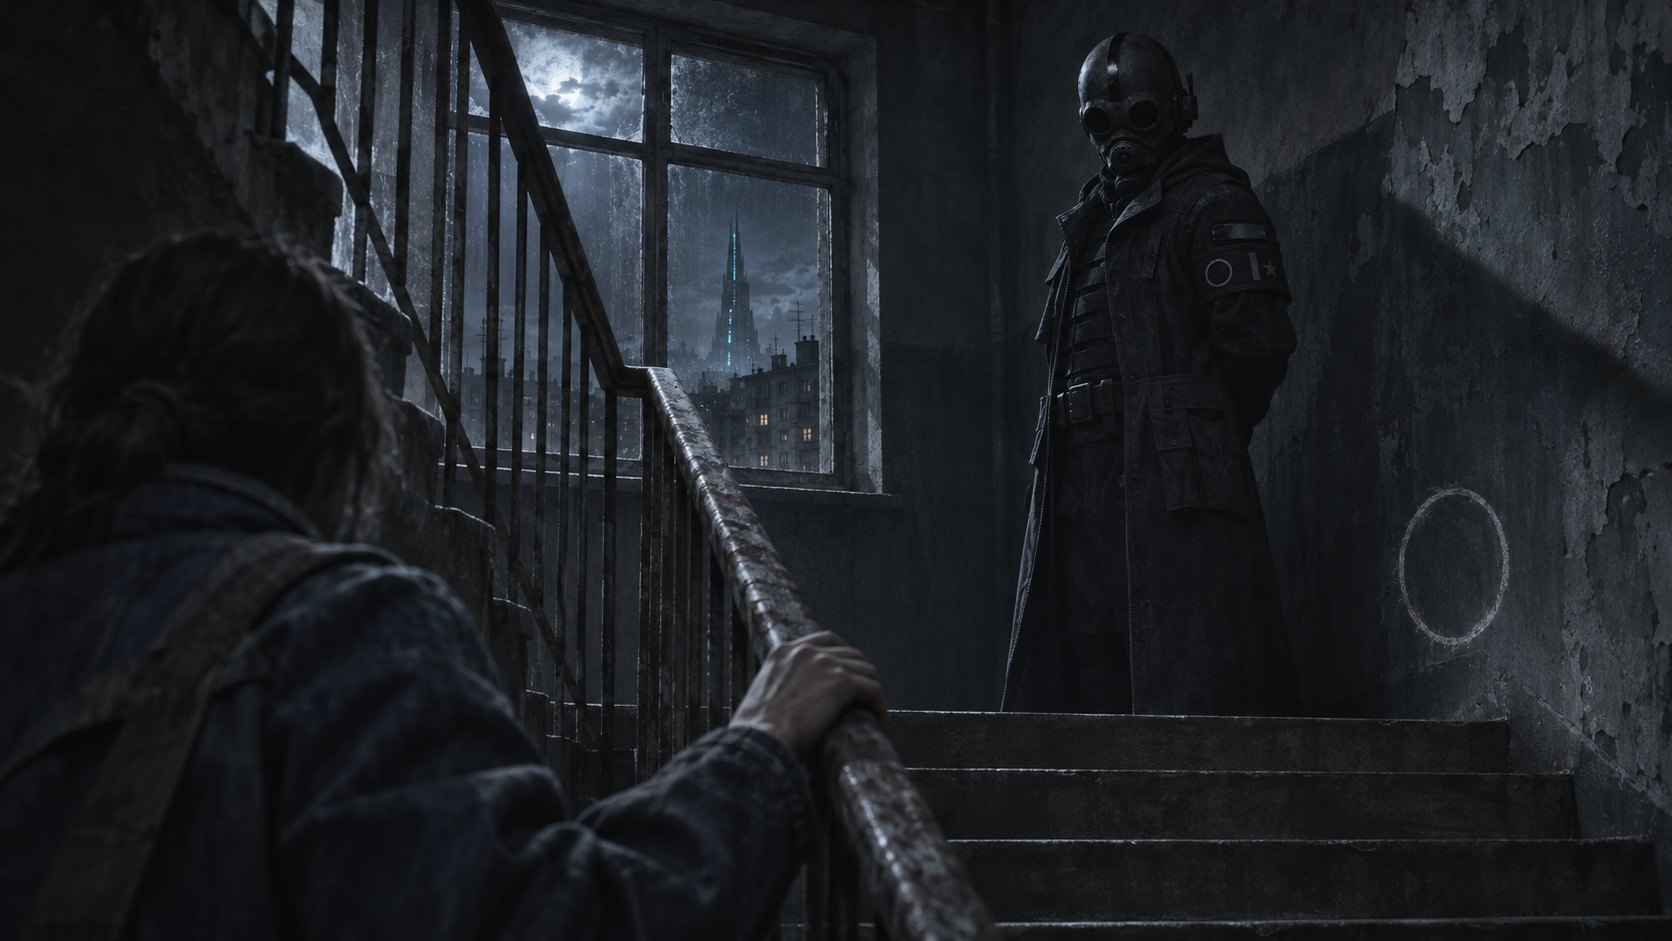
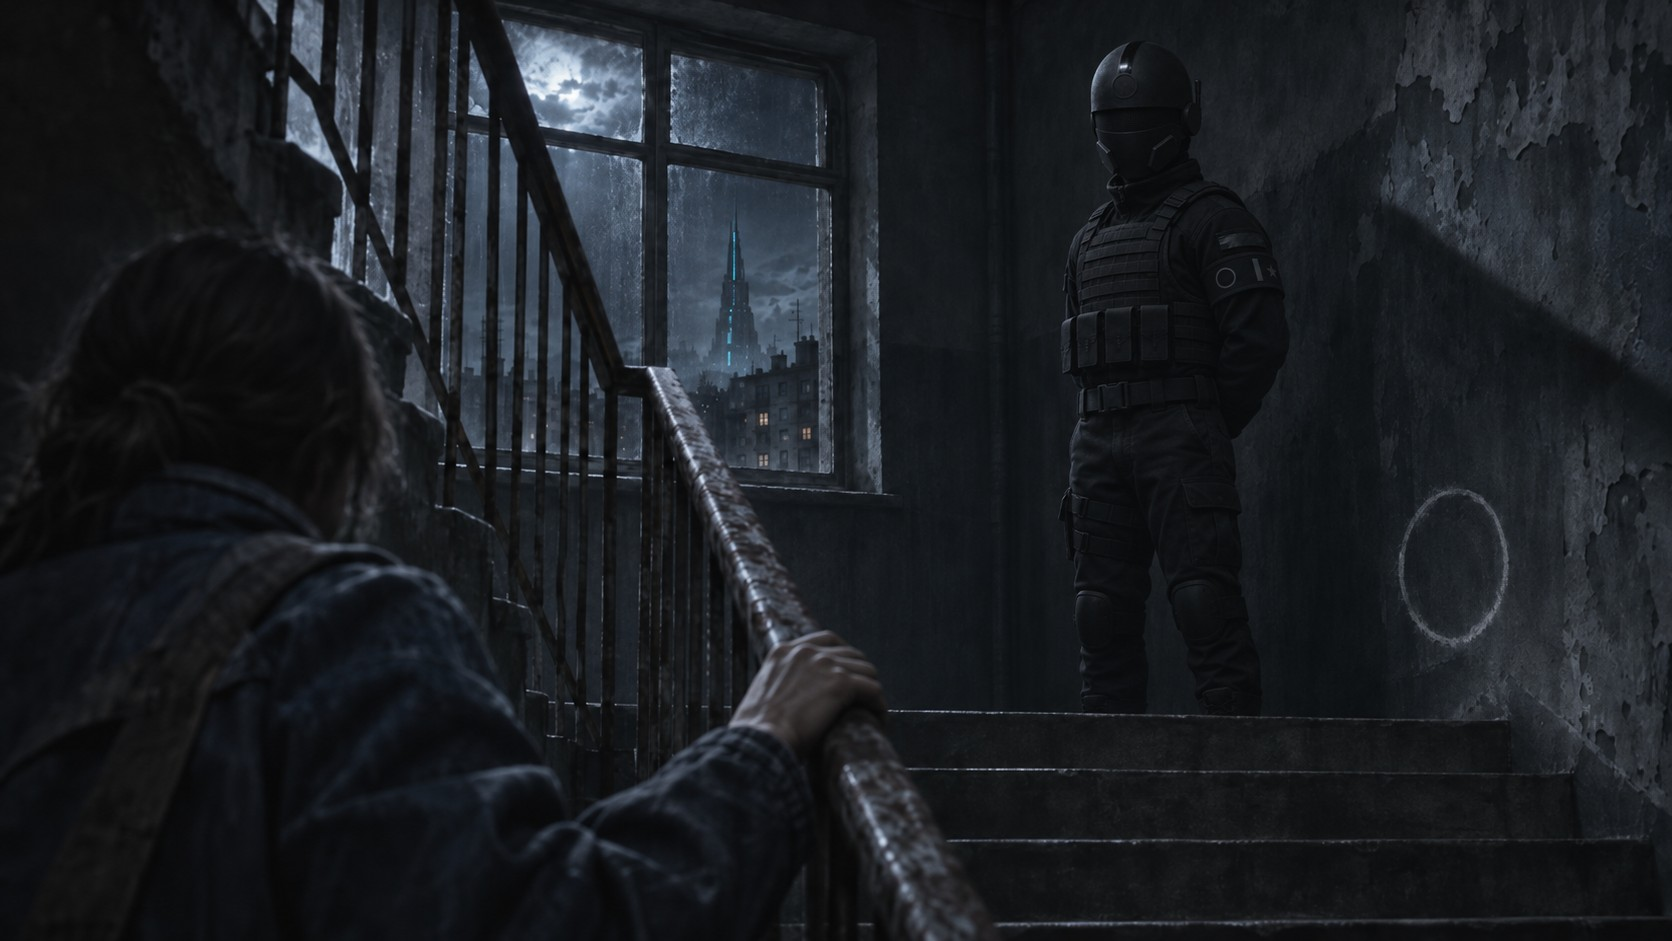
Division leaders: six DvL portraits, roster, Division Leaders codex; E35 Rev 2
Claude-Session: https://claude.ai/code/session_01FPxW8sjExYByq8Hjg1f5Jc

diff --git a/js/content/career.js b/js/content/career.js
@@ -93,6 +93,19 @@
   };
   const NICK = ['Anvil', 'Birch', 'Cobble', 'Dray', 'Ember', 'Flint', 'Gauge', 'Harrow', 'Ingot', 'Jolt', 'Keel', 'Lantern', 'Mallet', 'Nettle', 'Oxide', 'Patch', 'Quarry', 'Rivet', 'Slate', 'Tallow', 'Umber', 'Vane', 'Wicket', 'Yarrow', 'Zinc', 'Brine', 'Cinder', 'Dusk', 'Furrow', 'Grit', 'Hasp', 'Ledger', 'Moth', 'Pike', 'Quill', 'Salt', 'Sorrel', 'Thatch', 'Weir'];
   const SHAPE = { DvL: 1, SqL: 2, OfC: 4, EpU: 3, '01': 4, '02': 5, '03': 6, '04': 7, '05': 8 };
+  /* division leaders (DvL), one per division; JURY's is the Magistrate. img null = no portrait yet */
+  const DVL = {
+    UNION: { key: 'anvil', name: '"Anvil"', id: '10233', img: 'dvl-union', line: 'Twenty-six years on the street. The street learned to stop hitting first.' },
+    HELIX: { key: 'lancet', name: '"Lancet"', id: '40912', img: 'dvl-helix', line: 'Runs every ward in City 9. Has never once been seen without gloves.' },
+    RAZOR: { key: 'rampart', name: '"Rampart"', id: '81006', img: 'dvl-razor', line: 'Kept the bullet gouge across the brow. Says it reminds the Spire who stood in the way.' },
+    SPEAR: { key: 'pyre', name: '"Pyre"', id: '67701', img: 'dvl-spear', line: 'First through every door in the 404 zones, last out. The soot never washes off.' },
+    VECTOR: { key: 'formalin', name: '"Formalin"', id: '33145', img: 'dvl-vector', line: 'Keeps a catalogue of everything that came out of the quarantine. Keeps all of it.' },
+    GRID: { key: 'dynamo', name: '"Dynamo"', id: '26019', img: null, line: 'Decides which lights go out first in winter, and signs the list.' },
+  };
+  G.DVL = DVL;
+  Object.keys(DVL).forEach((d) => (G.PEOPLE[DVL[d].key] = { name: DVL[d].name, role: `${d} DvL · division leader`, img: DVL[d].img }));
+  G.PEOPLE.nobody = { name: '"Nobody"', role: 'VEIL · no designation', img: 'dvl-veil' };
+
   /* known people carry their canon designation; the note is their relation to you */
   const named = (s) => {
     const div = s.div || 'UNION';
@@ -100,6 +113,7 @@
     const D = (d, r, id) => `CCA.C9.D${d}-${div}-${r}-${id}`;
     if (div === 'UNION') out.push({ name: '"Granite"', rank: 'SqL', desig: 'CCA.C9.D5-UNION-SqL-11902', key: 'granite' });
     if (div === 'JURY') out.push({ name: 'The Magistrate', rank: 'DvL', desig: 'CCA.C9.D5-JURY-DvL-02842', key: 'magistrate' });
+    if (DVL[div]) out.push({ name: DVL[div].name, rank: 'DvL', note: 'division leader', desig: `CCA.C9.D1-${div}-DvL-${DVL[div].id}`, key: DVL[div].key });
     if (div === 'UNION' && s.rel.rook !== undefined) out.push({ name: '"Rook"', rank: '02', note: s.flags.rook_amputated ? 'amputated' : 'your old field trainer', desig: 'CCA.C9.D5-UNION-02-48151', key: 'rook', gone: s.flags.rook_amputated });
     if (div === 'UNION' && s.rel.wick !== undefined) out.push({ name: '"Wick"', rank: '05', note: s.flags.wick_dead ? 'deserviced, D4 yard' : s.flags.wick_alive ? 'transferred to D2' : 'your trainee', desig: 'CCA.C9.D5-UNION-05-61207', key: 'wick', gone: s.flags.wick_dead || s.flags.wick_alive });
     if (div === 'JURY' && s.rel.vesna !== undefined) out.push({ name: 'Vesna', rank: '02', note: 'your partner', desig: 'CCA.C9.D5-JURY-02-30961', key: 'vesna' });
@@ -130,7 +144,6 @@
         list.push({ name: `"${n}"`, rank: r, uid: String(10000 + Math.floor(rnd() * 89999)) });
       }
     });
-    if (div === 'UNION' && !list.some((x) => x.rank === 'DvL')) list.push({ name: '"Bulwark"', rank: 'DvL', desig: 'CCA.C9.D5-UNION-DvL-00290' });
     list.push({ name: s.name, rank: s.rank, you: true, note: 'you', desig: G.desig(s) });
     const order = (x) => -G.rankIdx(x.rank);
     list.sort((a, b) => order(a) - order(b) || (a.you ? -1 : b.you ? 1 : 0));
@@ -233,4 +246,31 @@
   });
   G.CODEX_GROUPS.find((g) => g.title === 'Service record').ids.unshift('career');
   G.extend('u_board', { after: (s) => G.unlock(s, 'career') });
+})();
+
+/* the division leaders in the Codex: every portrait that exists */
+(function () {
+  const rows = () =>
+    Object.keys(G.DVL)
+      .filter((d) => G.DVL[d].img)
+      .map((d) => {
+        const x = G.DVL[d];
+        return `<figure class="dvl"><img src="assets/img/portraits/${x.img}.webp" alt="${x.name}" loading="lazy"><figcaption><b>${x.name}</b> — ${d}<small>CCA.C9.D1-${d}-DvL-${x.id}</small><span>${x.line}</span></figcaption></figure>`;
+      })
+      .join('');
+  G.addCodex({
+    dvls: {
+      title: 'Division Leaders',
+      get body() {
+        return `<p>Each division of City 9 answers to one Division Leader: three silver stars, an office on the Nexus upper floors, and a crest stripe in the division's colour. Units below Squadron Leader rarely meet them. Units who do, remember it.</p>
+        <figure class="dvl"><img src="assets/img/portraits/magistrate.webp" alt="The Magistrate" loading="lazy"><figcaption><b>The Magistrate</b> — JURY<small>CCA.C9.D5-JURY-DvL-02842</small><span>Level 4 is the Magistrate's. So, in the end, is everyone else.</span></figcaption></figure>
+        ${rows()}
+        <figure class="dvl"><img src="assets/img/portraits/dvl-veil.webp" alt="[NO RECORD]" loading="lazy"><figcaption><b>[NO RECORD]</b> — VEIL<small>no designation</small><span>VEIL has no Division Leader. If it had, the file would say only <i>Nobody</i>.</span></figcaption></figure>`;
+      },
+    },
+  });
+  G.afterRender.push(() => {
+    const s = G.state();
+    if (s && s.phase === 'union' && G.rankIdx(s.rank) >= G.rankIdx('OfC')) G.unlock(s, 'dvls');
+  });
 })();

diff --git a/css/style.css b/css/style.css
@@ -688,3 +688,7 @@ body.anim-off .block > * { animation: none; }
 .dk-btns { display: flex; gap: 6px; padding: 6px; }
 .dk-btns .cr-btn { flex: 1; padding: 6px 4px; font-size: 12px; }
 @media (max-width: 600px) { .desk .dk-grid { gap: 5px; } .dk-feed { min-height: 150px; } .dk-head { font-size: 8.5px; padding: 3px 4px; } .dk-view { font-size: 11.5px; padding: 4px 5px; flex-direction: column; gap: 4px; } .dk-view img { width: 40px; height: 40px; } .dk-btns { padding: 4px; gap: 4px; } .dk-btns .cr-btn { font-size: 10.5px; padding: 6px 2px; } }
+figure.dvl { display: flex; gap: 12px; align-items: flex-start; margin: 10px 0; }
+figure.dvl img { width: 84px; height: 84px; object-fit: cover; border-radius: 3px; border: 1px solid var(--line); flex: none; margin: 0; }
+figure.dvl figcaption small { display: block; font-family: var(--mono); font-size: 11px; color: var(--dim); }
+figure.dvl figcaption span { display: block; font-size: 13.5px; color: var(--dim); margin-top: 4px; }

diff --git a/js/content/codex.js b/js/content/codex.js
@@ -400,7 +400,7 @@ G.addCodex({
 G.CODEX_GROUPS = [
   { title: 'City 9', ids: ['city9', 'spire', 'district5', 'citizens', 'resistance'] },
   { title: 'The Universal Union', ids: ['union', 'overwatch', 'airwatch', 'sociostatus', 'biosignal'] },
-  { title: 'Civil Protection', ids: ['cca', 'designation', 'hierarchy', 'divisions', 'colours', 'uniforms', 'equipment', 'vehicles'] },
+  { title: 'Civil Protection', ids: ['cca', 'designation', 'hierarchy', 'dvls', 'divisions', 'colours', 'uniforms', 'equipment', 'vehicles'] },
   { title: 'Divisions', ids: ['helix', 'jury', 'vector', 'grid', 'veil'] },
   { title: 'Law', ids: ['crimes', 'contraband', 'verdicts'] },
   { title: 'Language & codes', ids: ['terms', 'codes'] },

diff --git a/sw.js b/sw.js
@@ -1,6 +1,6 @@
 /* Service worker: makes the game installable and playable offline.
    VERSION is a hash of the cached files: run python3 tools/bump-sw.py after changing code (the tests check it). */
-const VERSION = 'c9-f2b78349d5';
+const VERSION = 'c9-082a35d295';
 const MEDIA = 'c9-media-2'; /* images and fonts: kept across code updates (bumped once: v1 never refreshed replaced art) */
 const SHELL = [
   './',

diff --git a/docs/style-sheet.md b/docs/style-sheet.md
@@ -2023,6 +2023,8 @@ Bara JURY har en DvL (Magistraten). Resten får en, i samma porträttformat som 
 
 Bifoga: 1 portraits/mira (ljus och utsnitt) · 2 ref/dvl-helmet · 3 ref/dvl-armband · 4 uniform-<division>. VEIL: 1 portraits/veil-ofc · 2 uniform-veil.
 
+**Klara (2026-11-15):** UNION, HELIX, RAZOR, SPEAR, VECTOR och VEIL inlagda (`portraits/dvl-<div>.jpg`), i roster och i codex-posten Division Leaders. **GRID (Dynamo) saknas.** VECTOR fick också ett tredje filter i mitten. E35 Rev 2 är inlagd.
+
 ## 5j. NYA DIVISIONER: VECTOR, GRID, VEIL
 
 | Division | Roll | Färg | Ikon | Krav |
